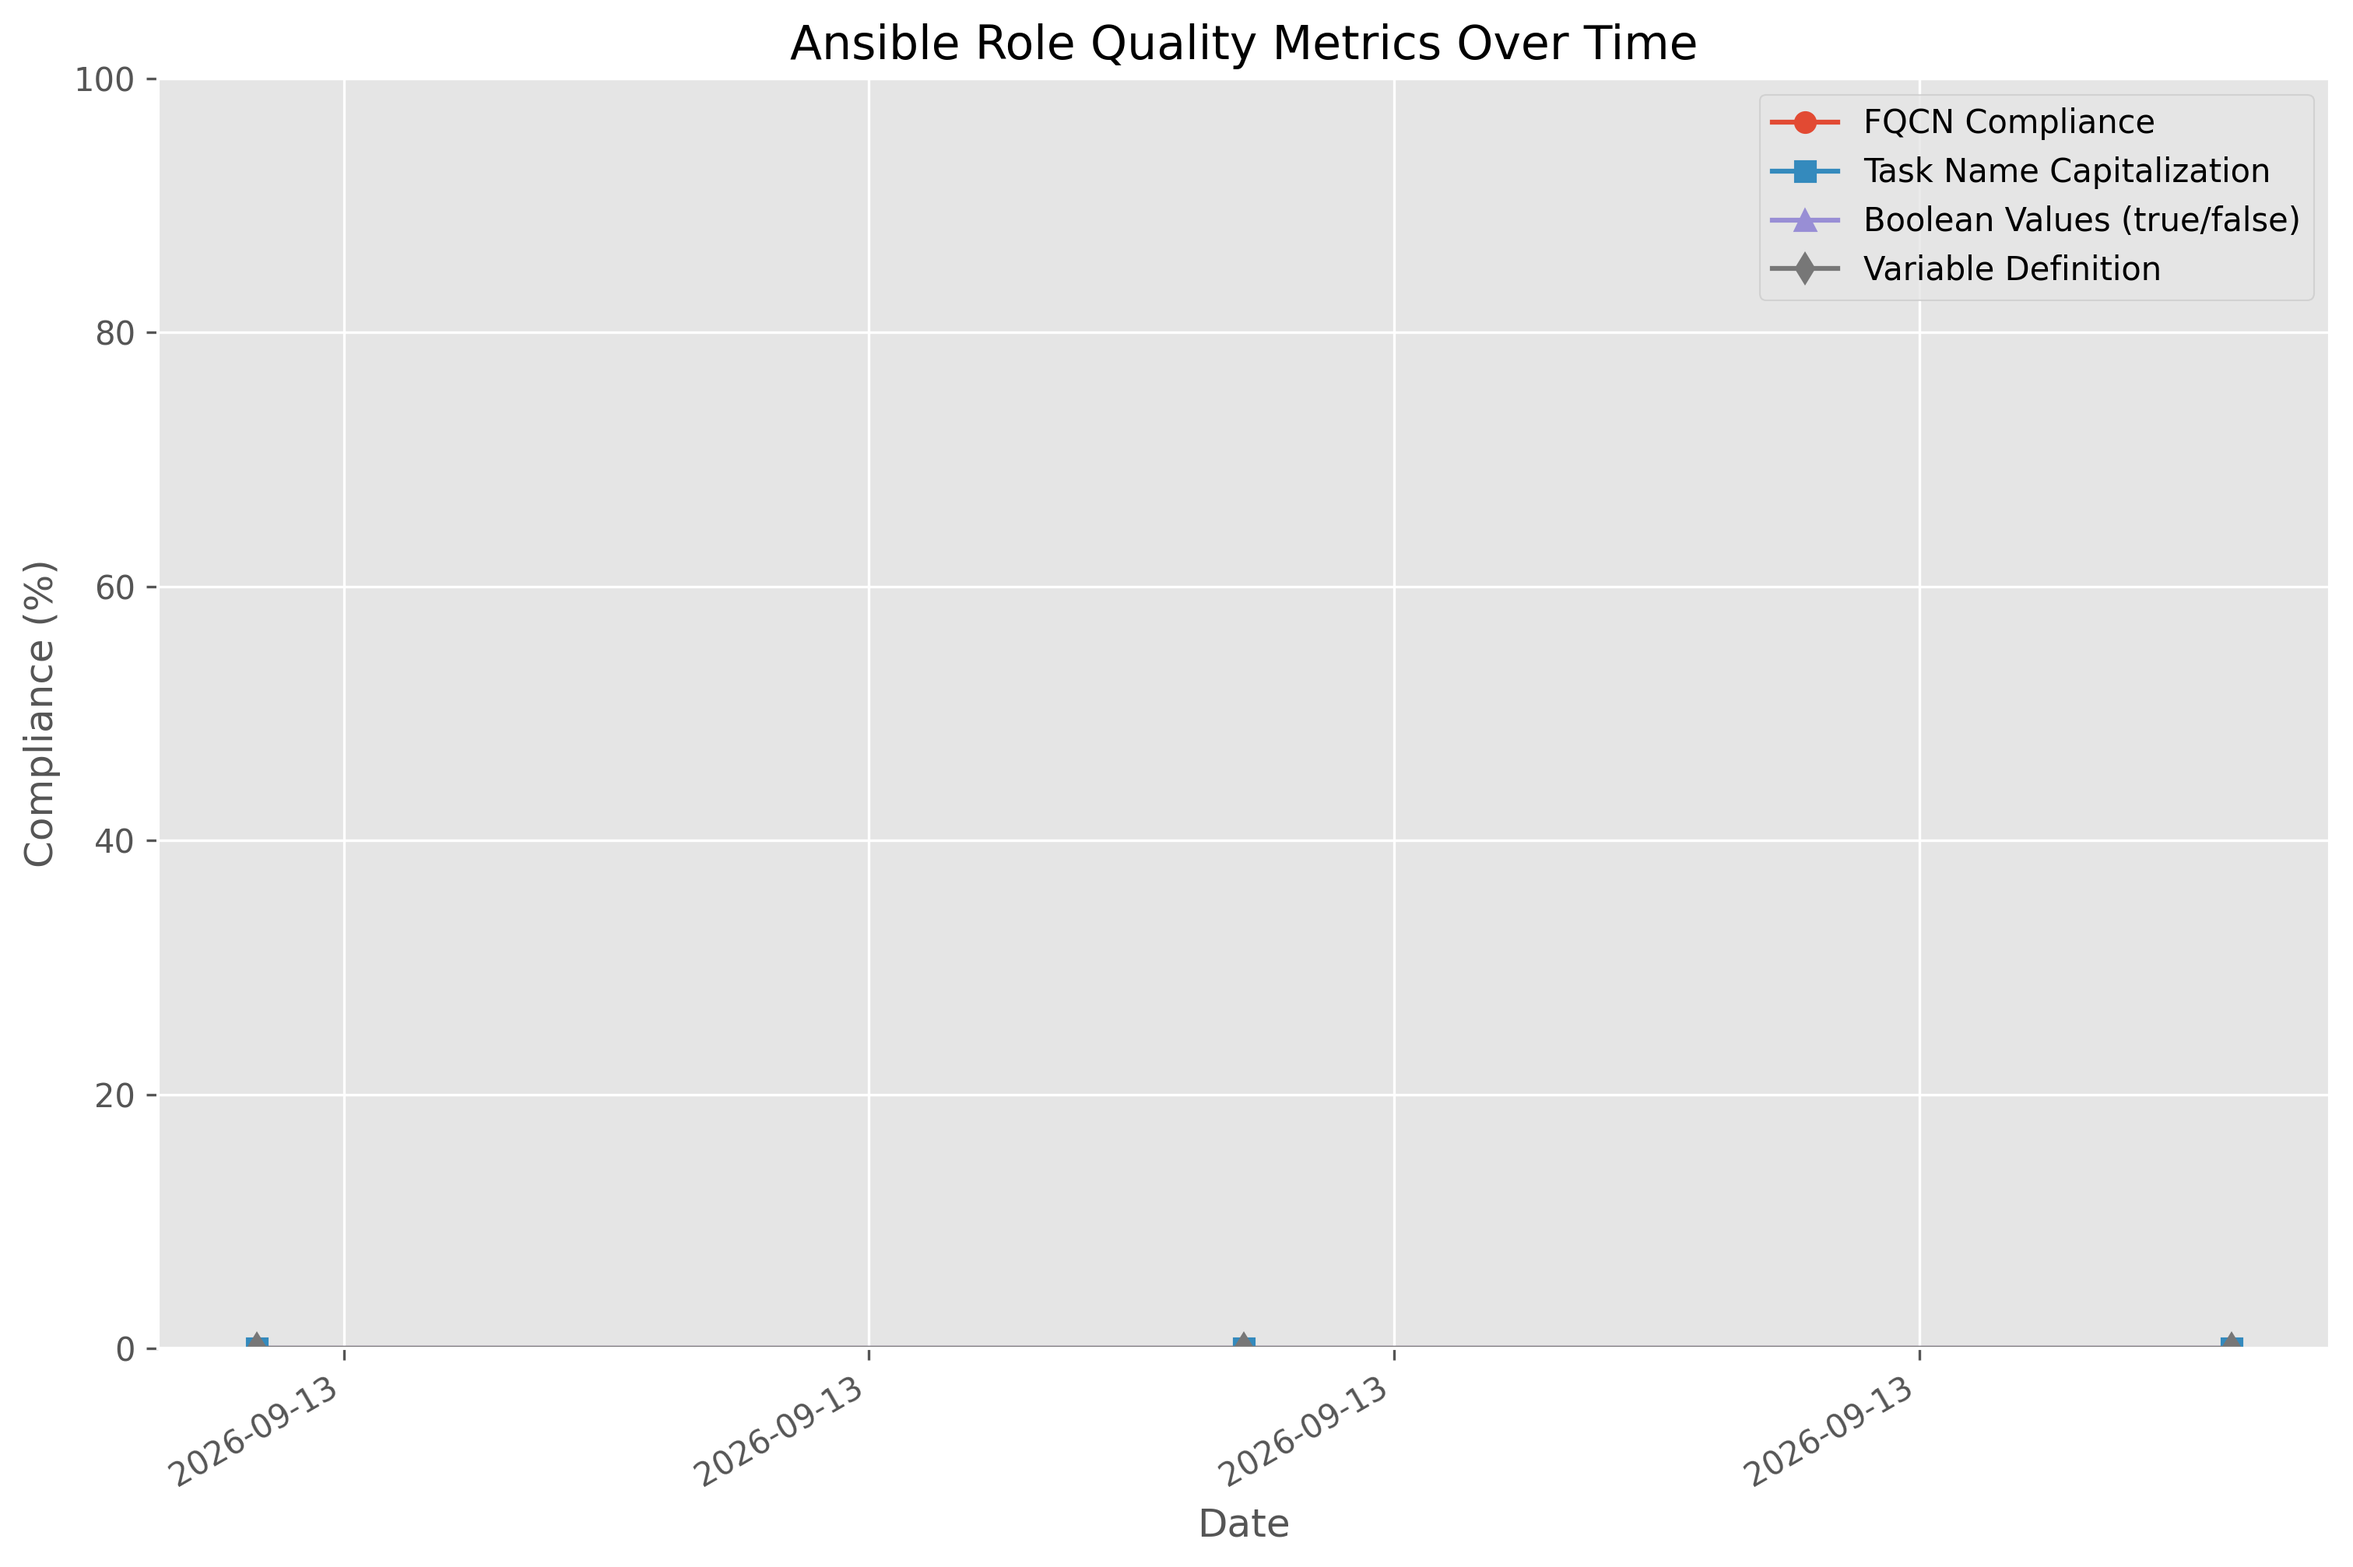
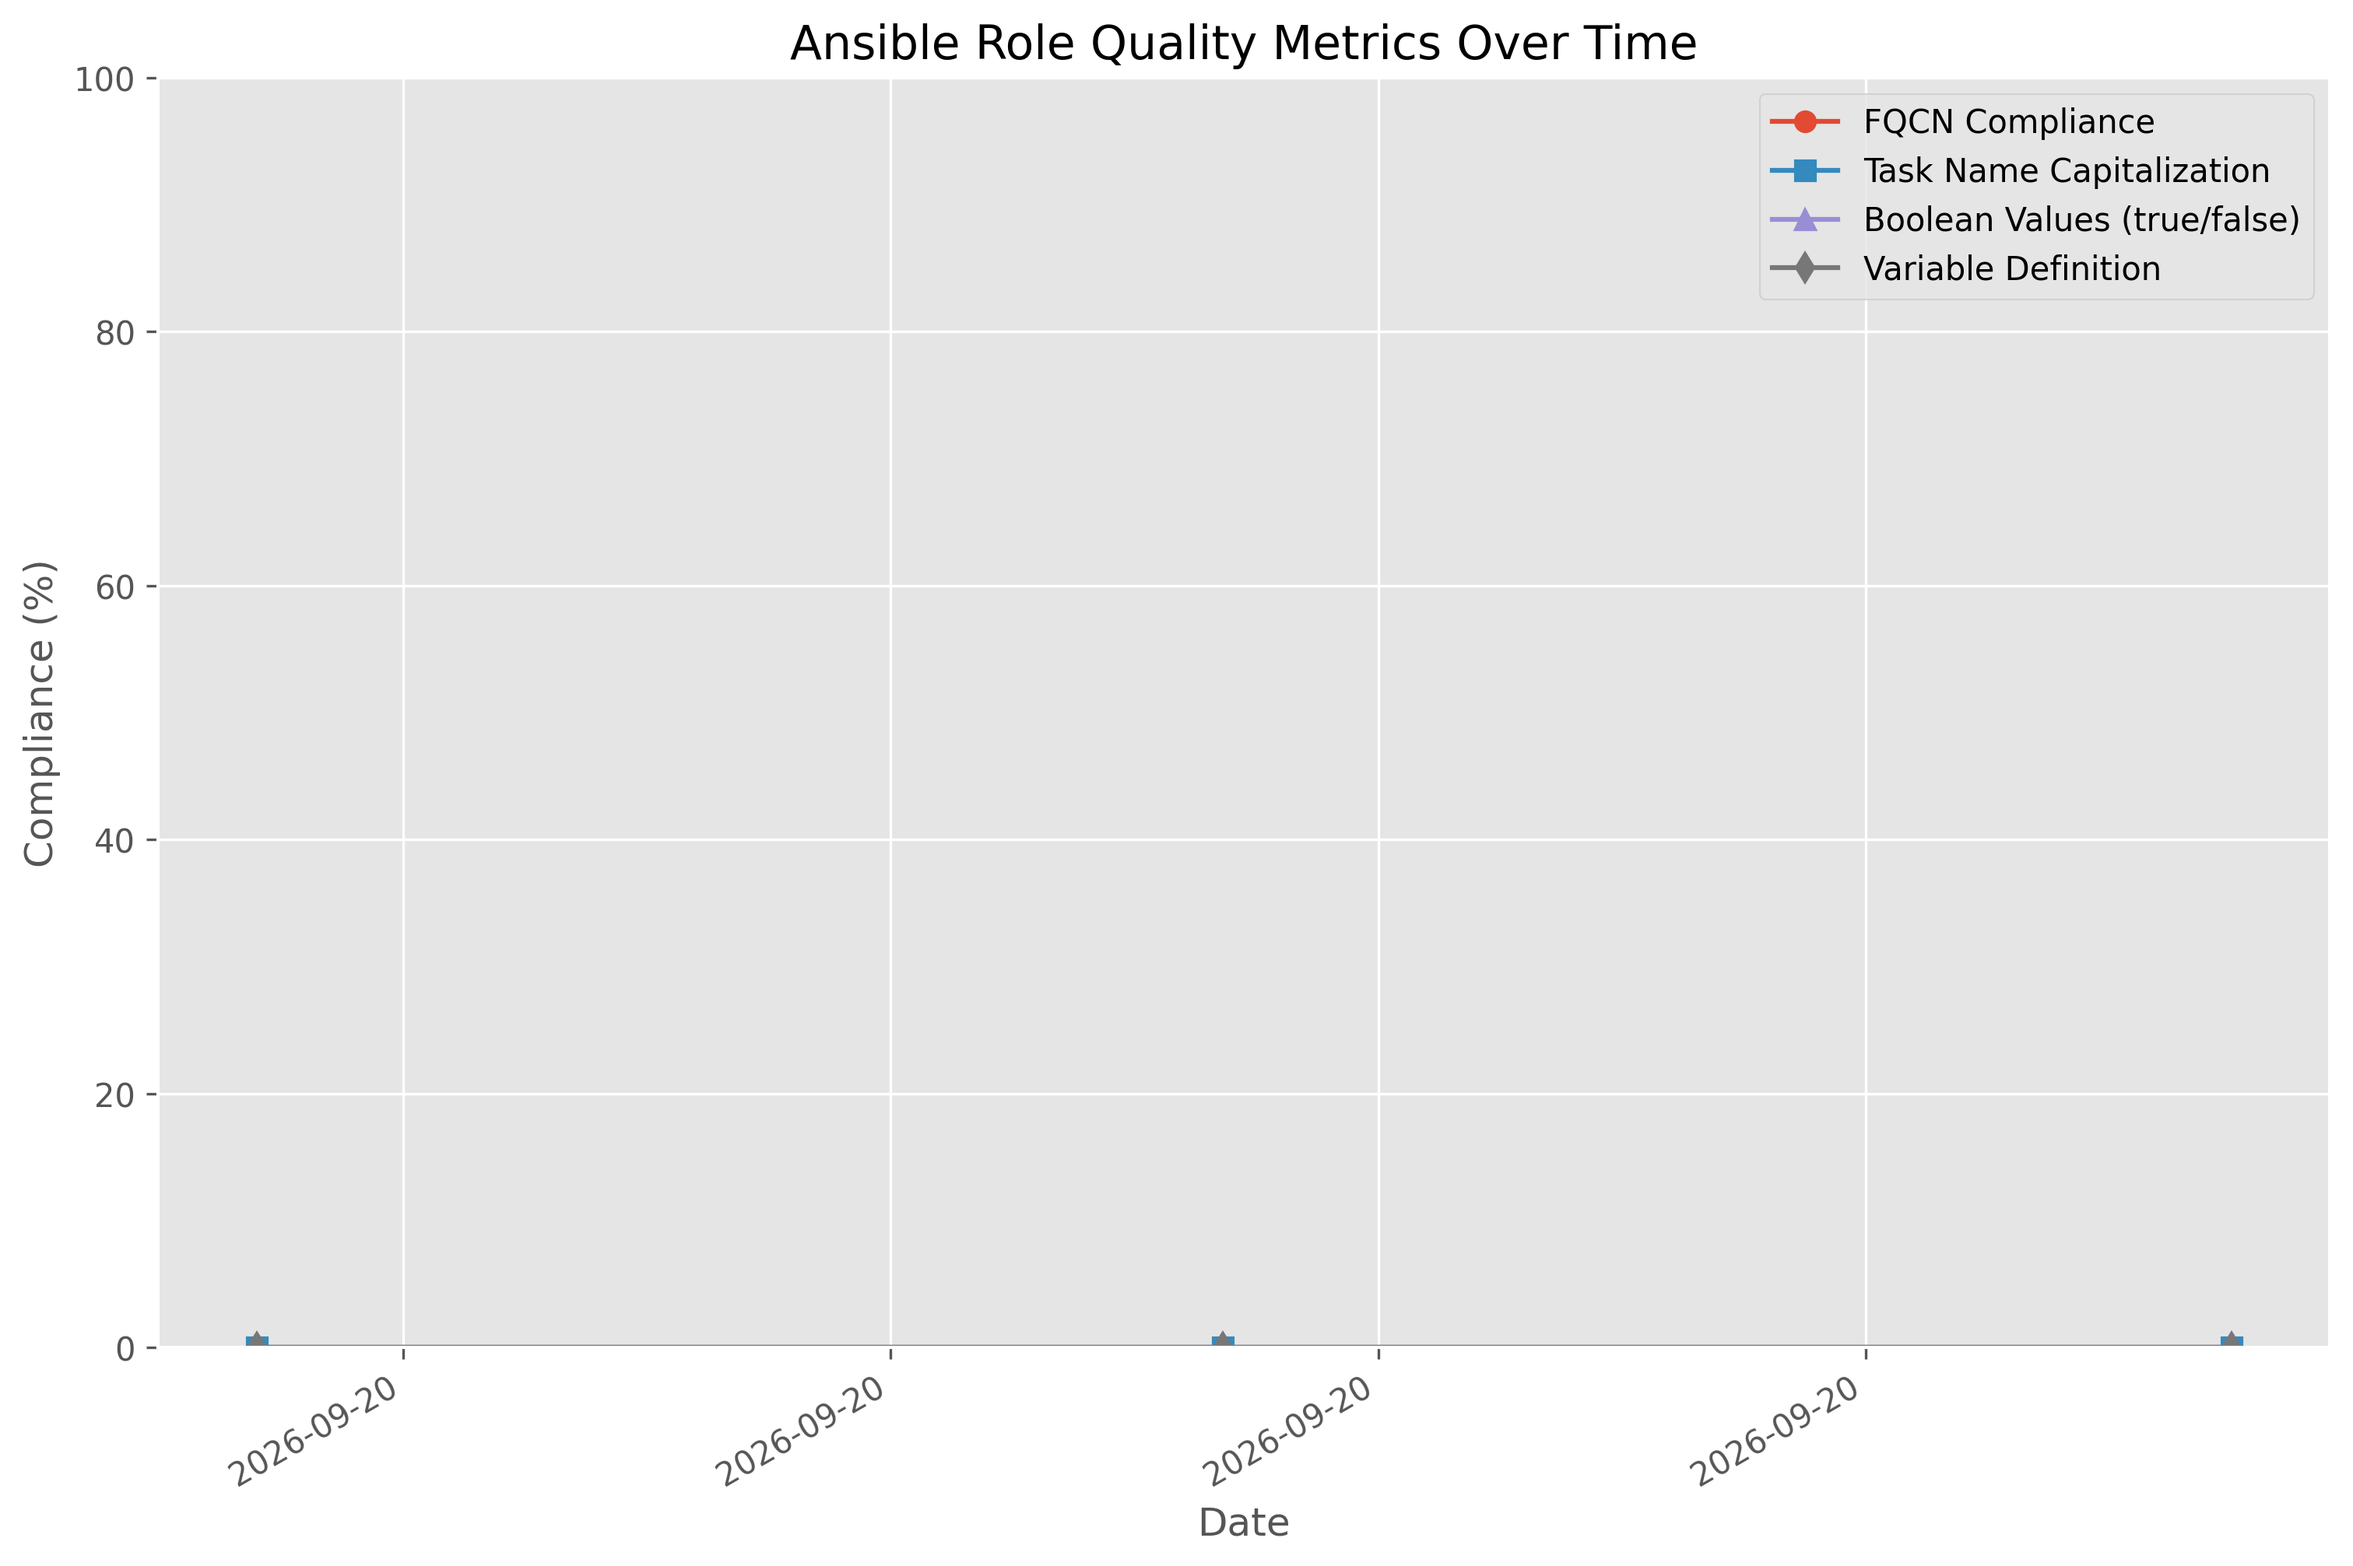
Update metrics (automated) 86381e575e3cb567ae7d61f2b827ec3665fe9a28

diff --git a/metrics/metrics_summary.md b/metrics/metrics_summary.md
@@ -1,6 +1,6 @@
 # Chef to Ansible Conversion Metrics
 
-Last updated: 2026-09-13 03:27:42
+Last updated: 2026-09-20 03:40:37
 
 ## Latest Compliance Metrics
 
